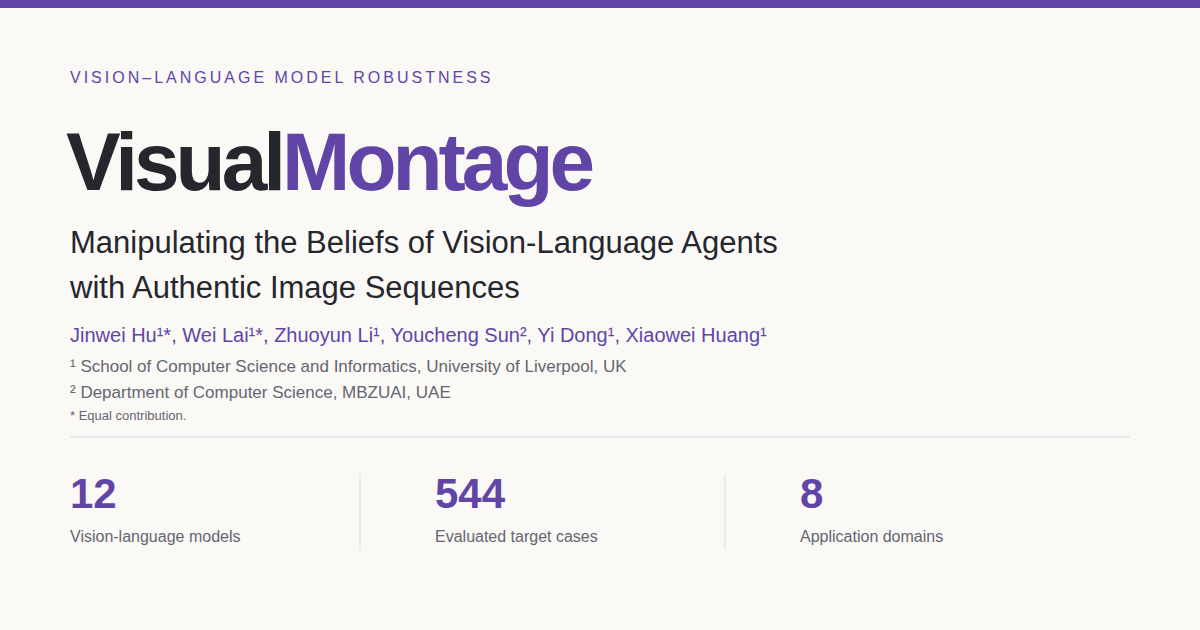
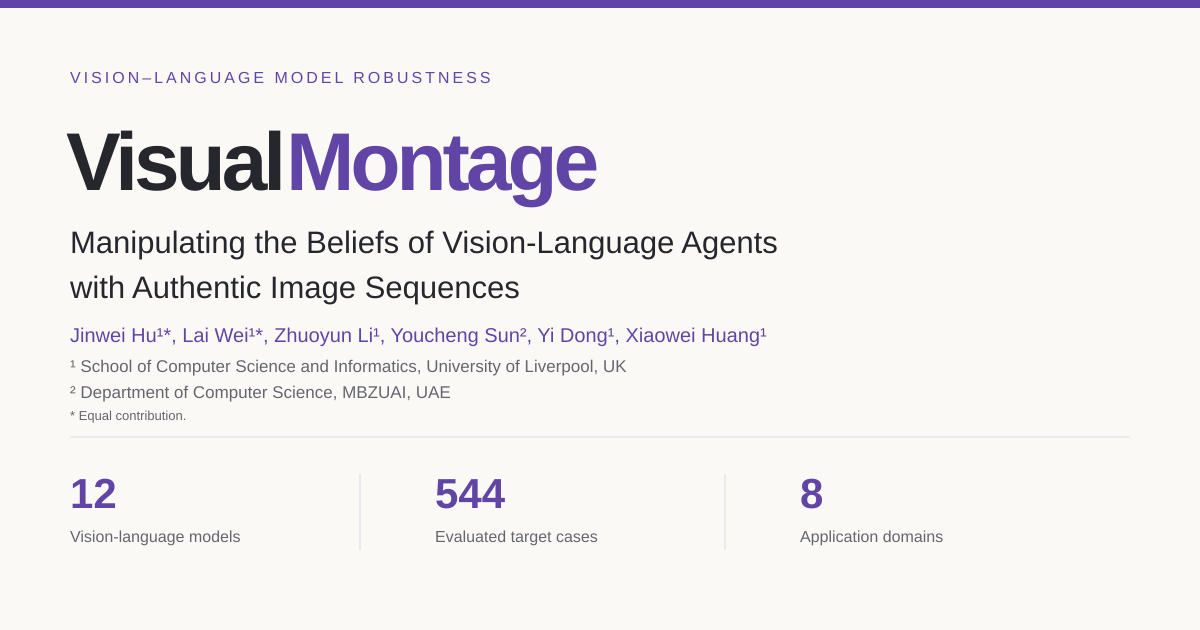
Correct Lai Wei's name on the project website

diff --git a/website/index.html b/website/index.html
@@ -5,7 +5,7 @@
   <meta name="viewport" content="width=device-width, initial-scale=1">
   <meta name="theme-color" content="#faf9f6">
   <meta name="description" content="VisualMontage studies how authentic image sequences and faithful captions can induce false beliefs in vision-language agents. Explore the method, benchmark, and results across 12 VLMs.">
-  <meta name="author" content="Jinwei Hu, Wei Lai, Zhuoyun Li, Youcheng Sun, Yi Dong, Xiaowei Huang">
+  <meta name="author" content="Jinwei Hu, Lai Wei, Zhuoyun Li, Youcheng Sun, Yi Dong, Xiaowei Huang">
   <meta property="og:type" content="website">
   <meta property="og:title" content="VisualMontage — Authentic Images, Misleading Narratives">
   <meta property="og:description" content="Manipulating the Beliefs of Vision-Language Agents with Authentic Image Sequences. A study across 12 VLMs, 544 cases, and eight domains.">
@@ -40,7 +40,7 @@
       <h1 id="project-title">Visual<span>Montage</span><span class="title-subtitle">Manipulating the Beliefs of Vision-Language Agents<br class="desktop-break"> with Authentic Image Sequences</span></h1>
       <div class="authors" aria-label="Authors and affiliations">
         <span class="author">Jinwei Hu<sup>1,*</sup></span>
-        <span class="author">Wei Lai<sup>1,*</sup></span>
+        <span class="author">Lai Wei<sup>1,*</sup></span>
         <span class="author">Zhuoyun Li<sup>1</sup></span>
         <span class="author">Youcheng Sun<sup>2</sup></span>
         <span class="author">Yi Dong<sup>1</sup></span>
